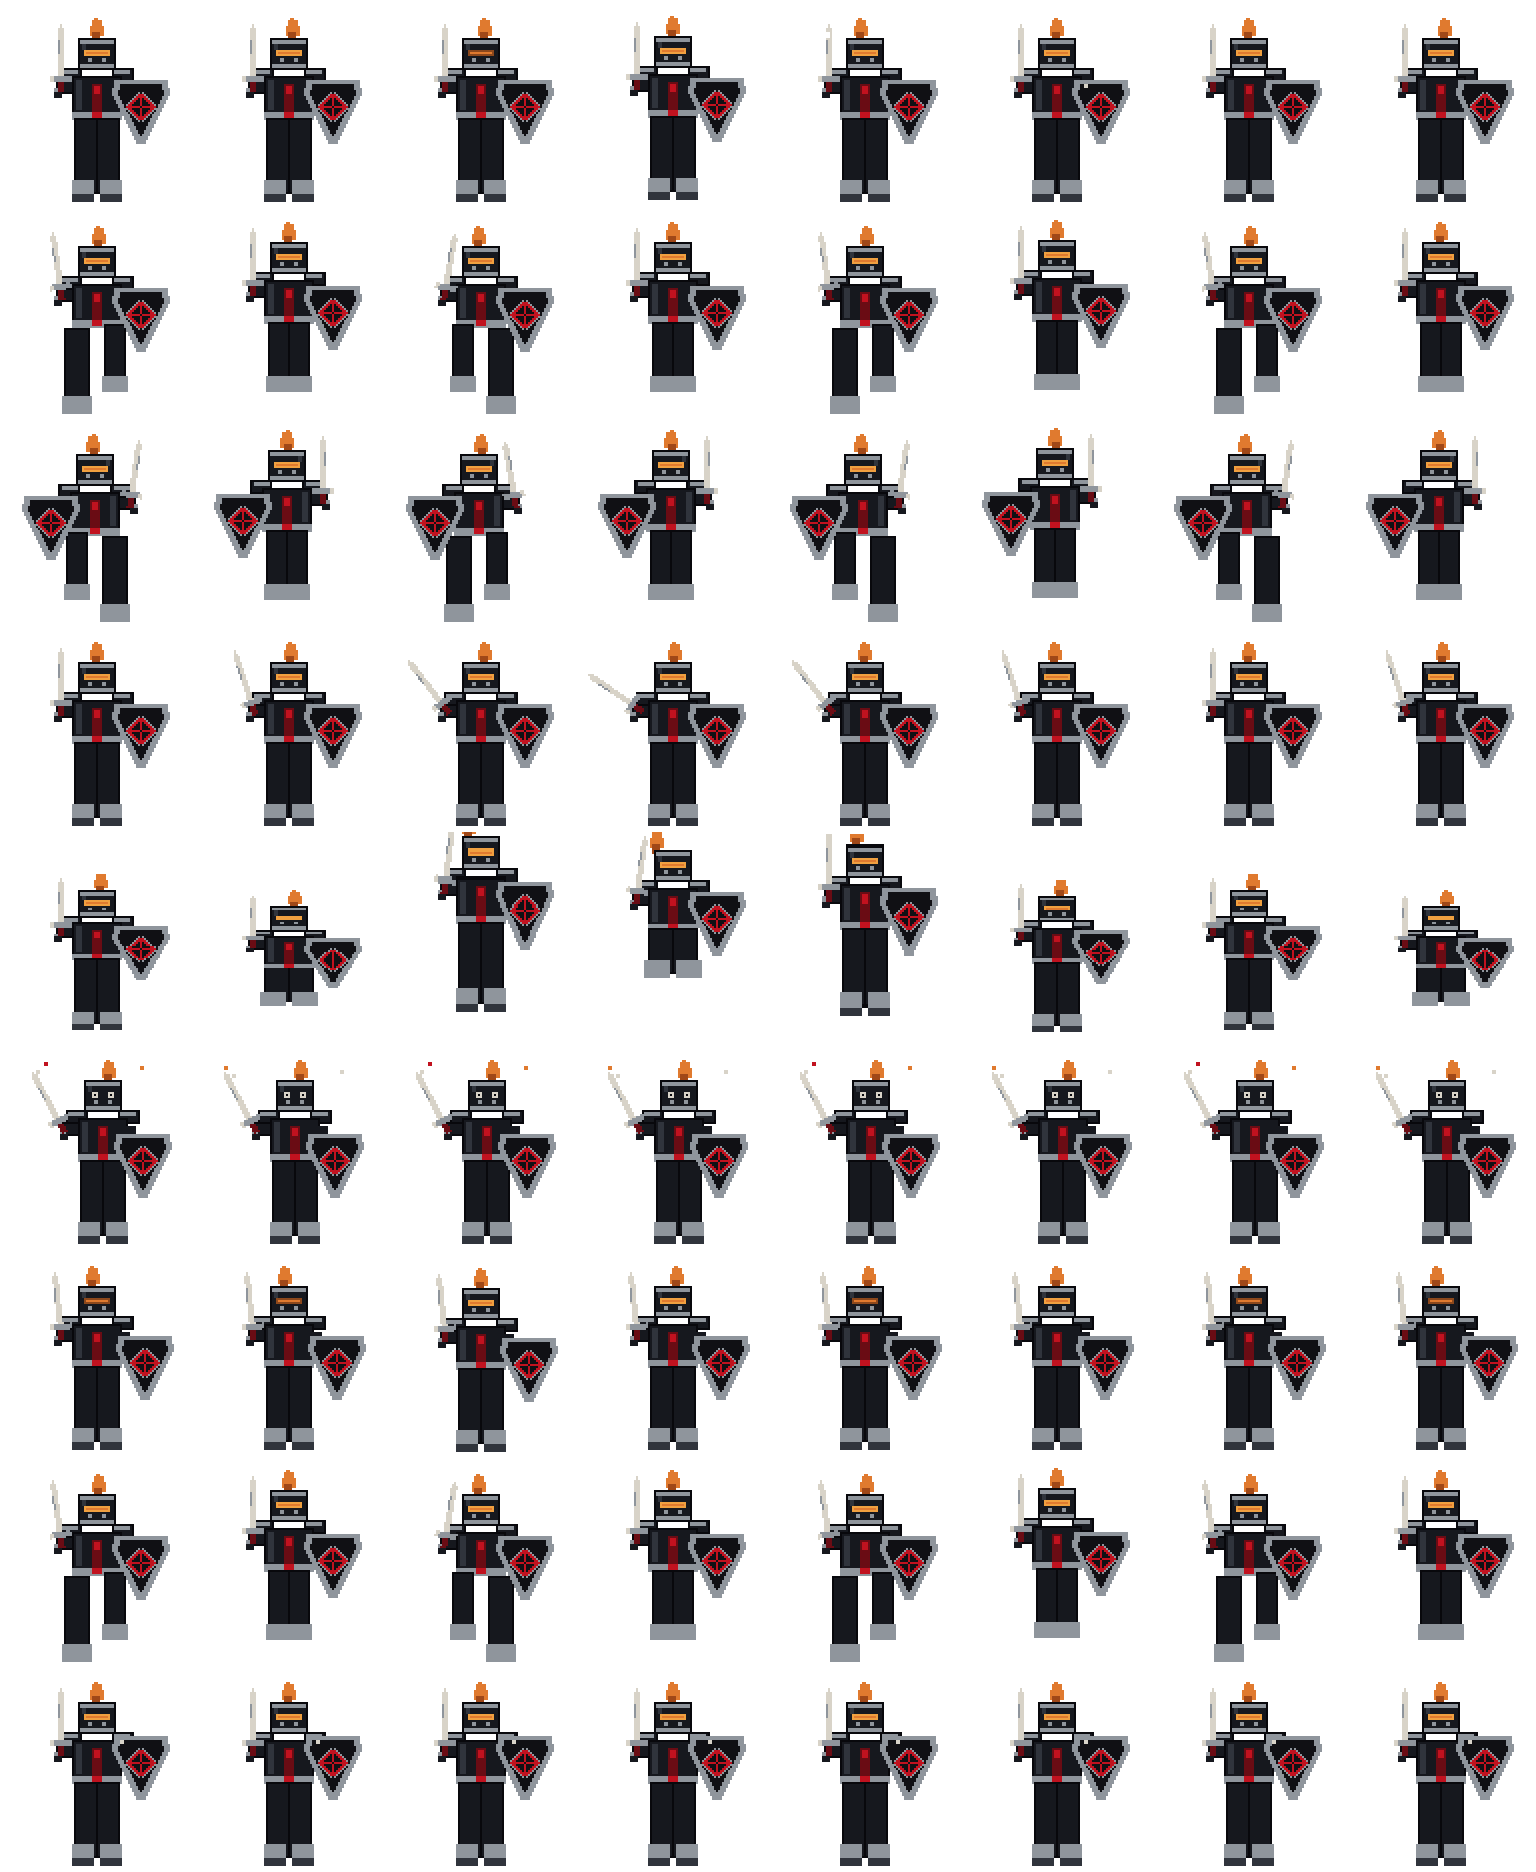
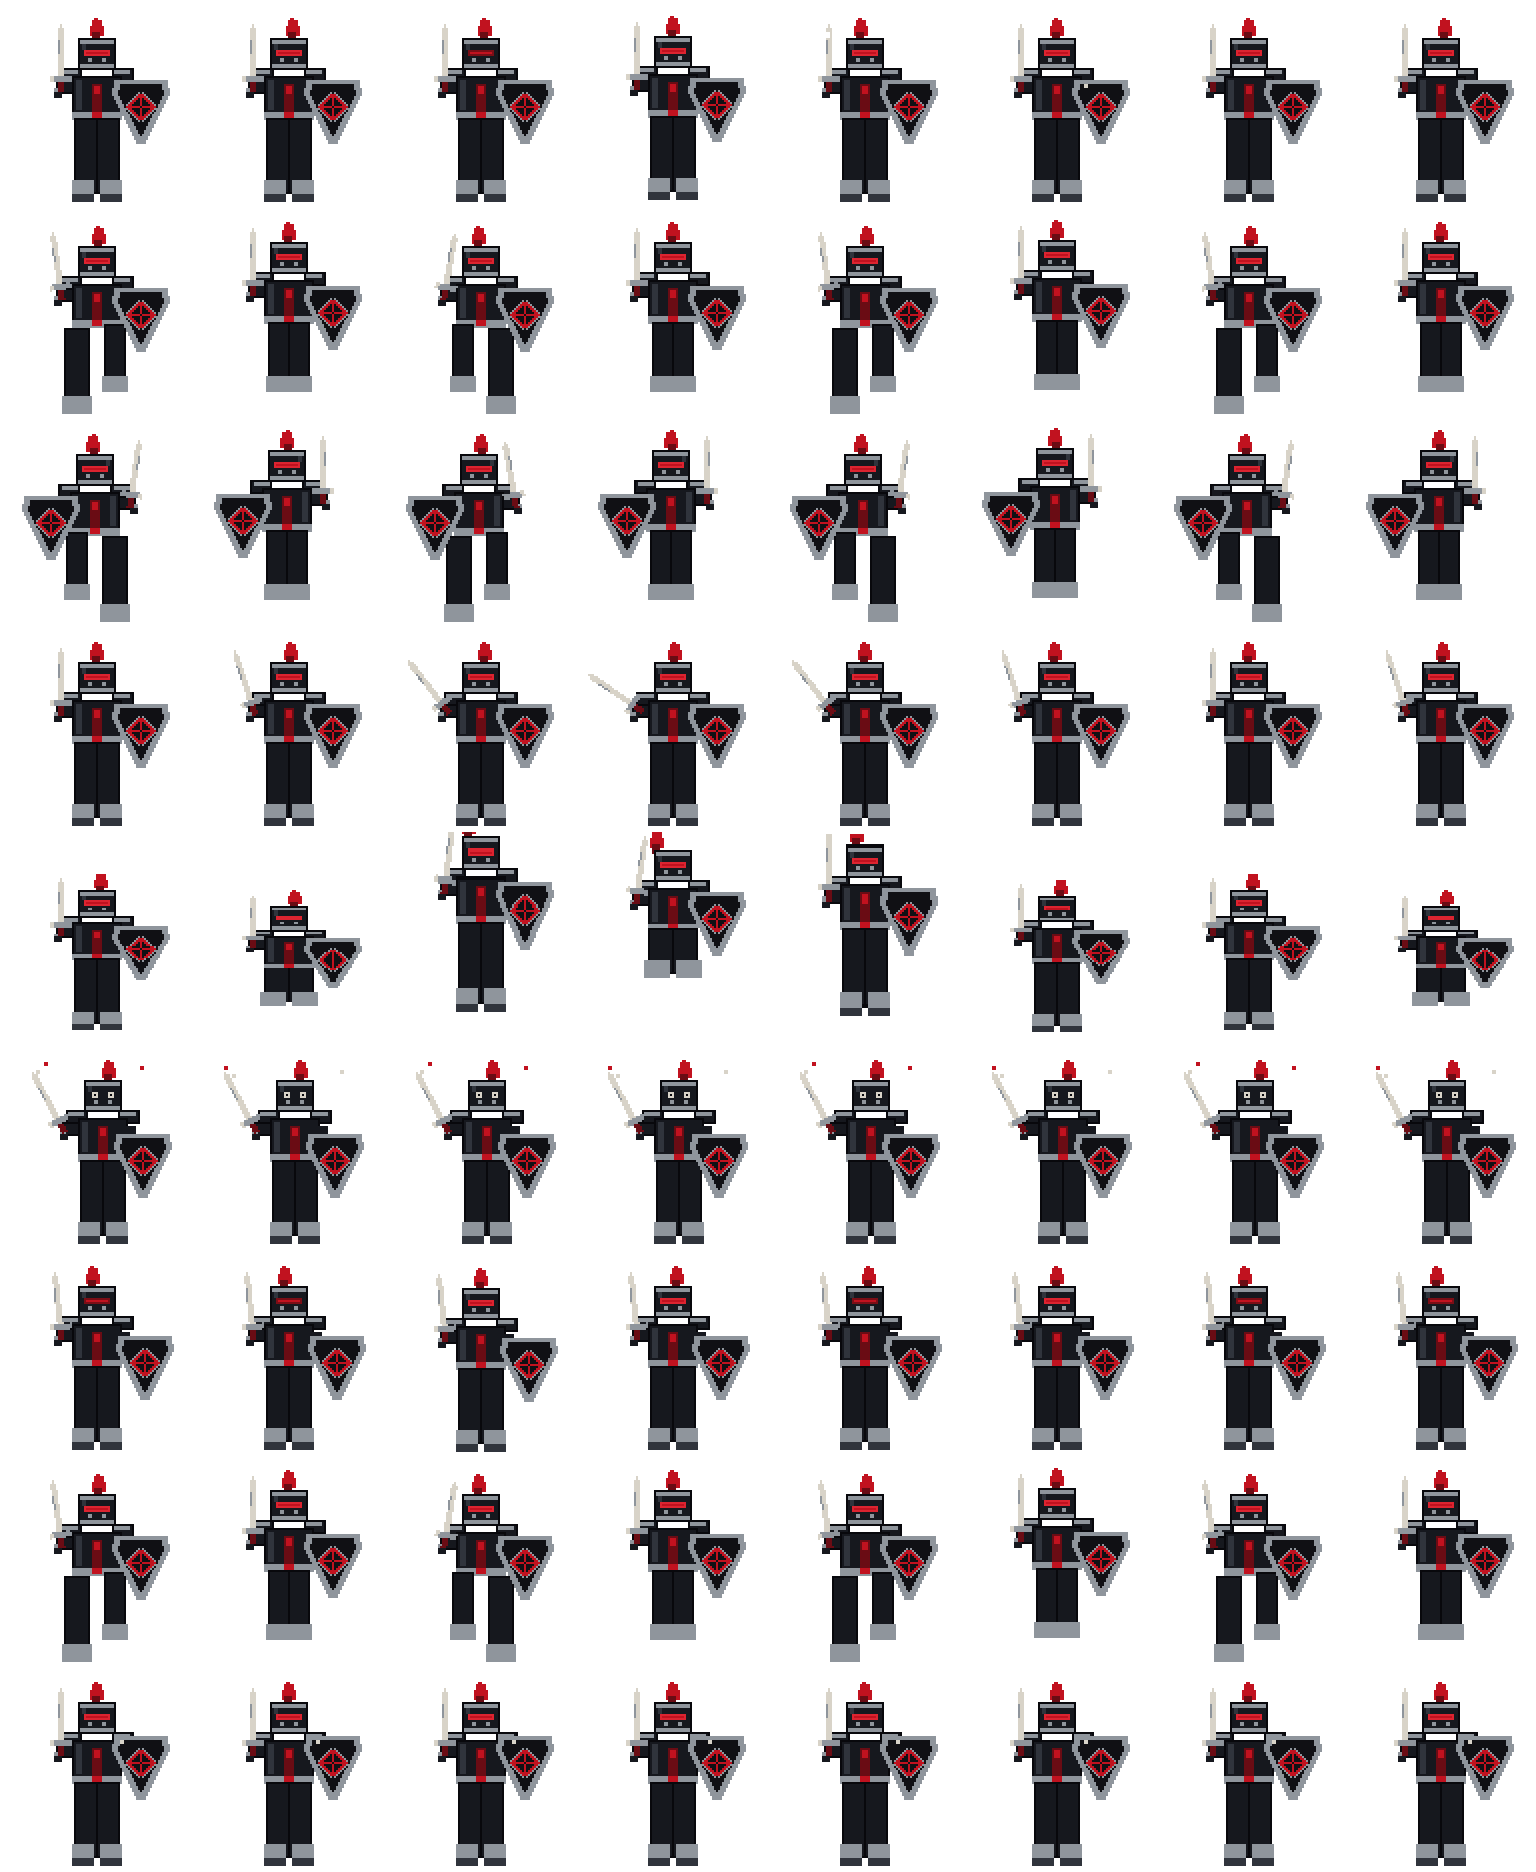
Blood the field knight's plume and visor

diff --git a/css/style.css b/css/style.css
@@ -801,7 +801,7 @@ html[data-theme="ironlight"] .hero-vignette {
 .knight-sprite {
   width: 192px;
   height: 208px;
-  background-image: url('../img/blackshield-knight.webp?v=4');
+  background-image: url('../img/blackshield-knight.webp?v=5');
   background-repeat: no-repeat;
   image-rendering: pixelated;
   animation:
